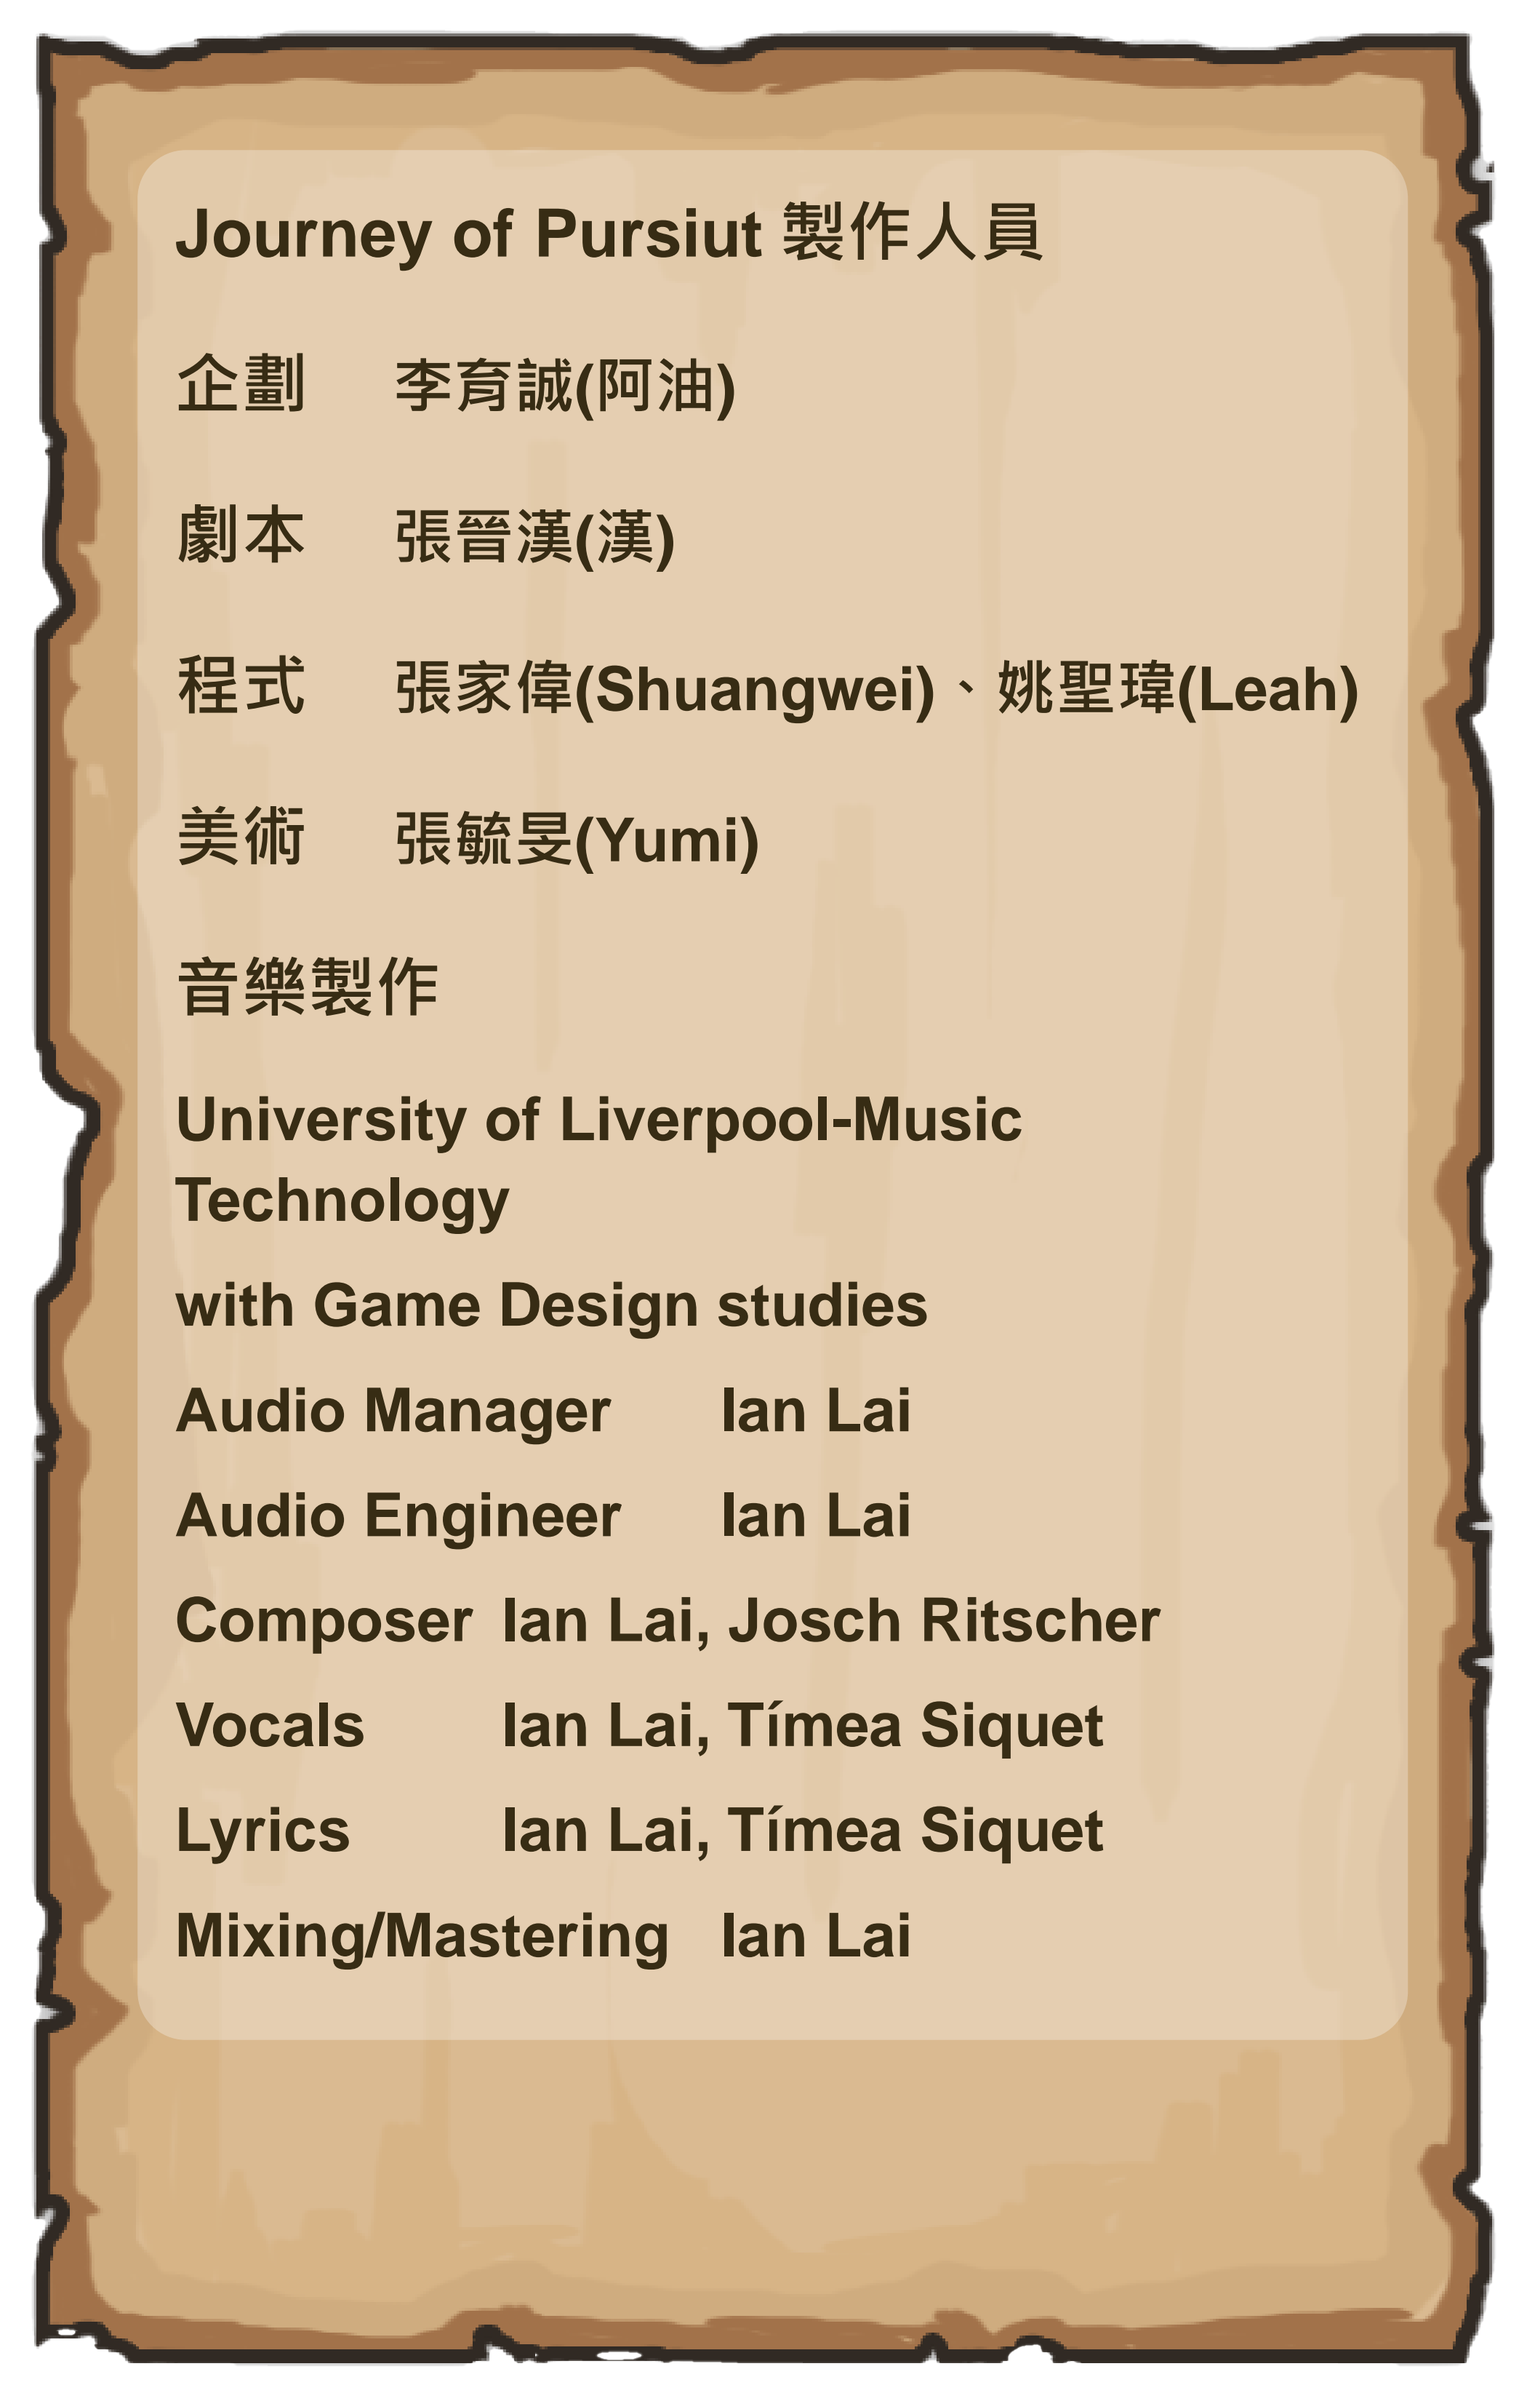
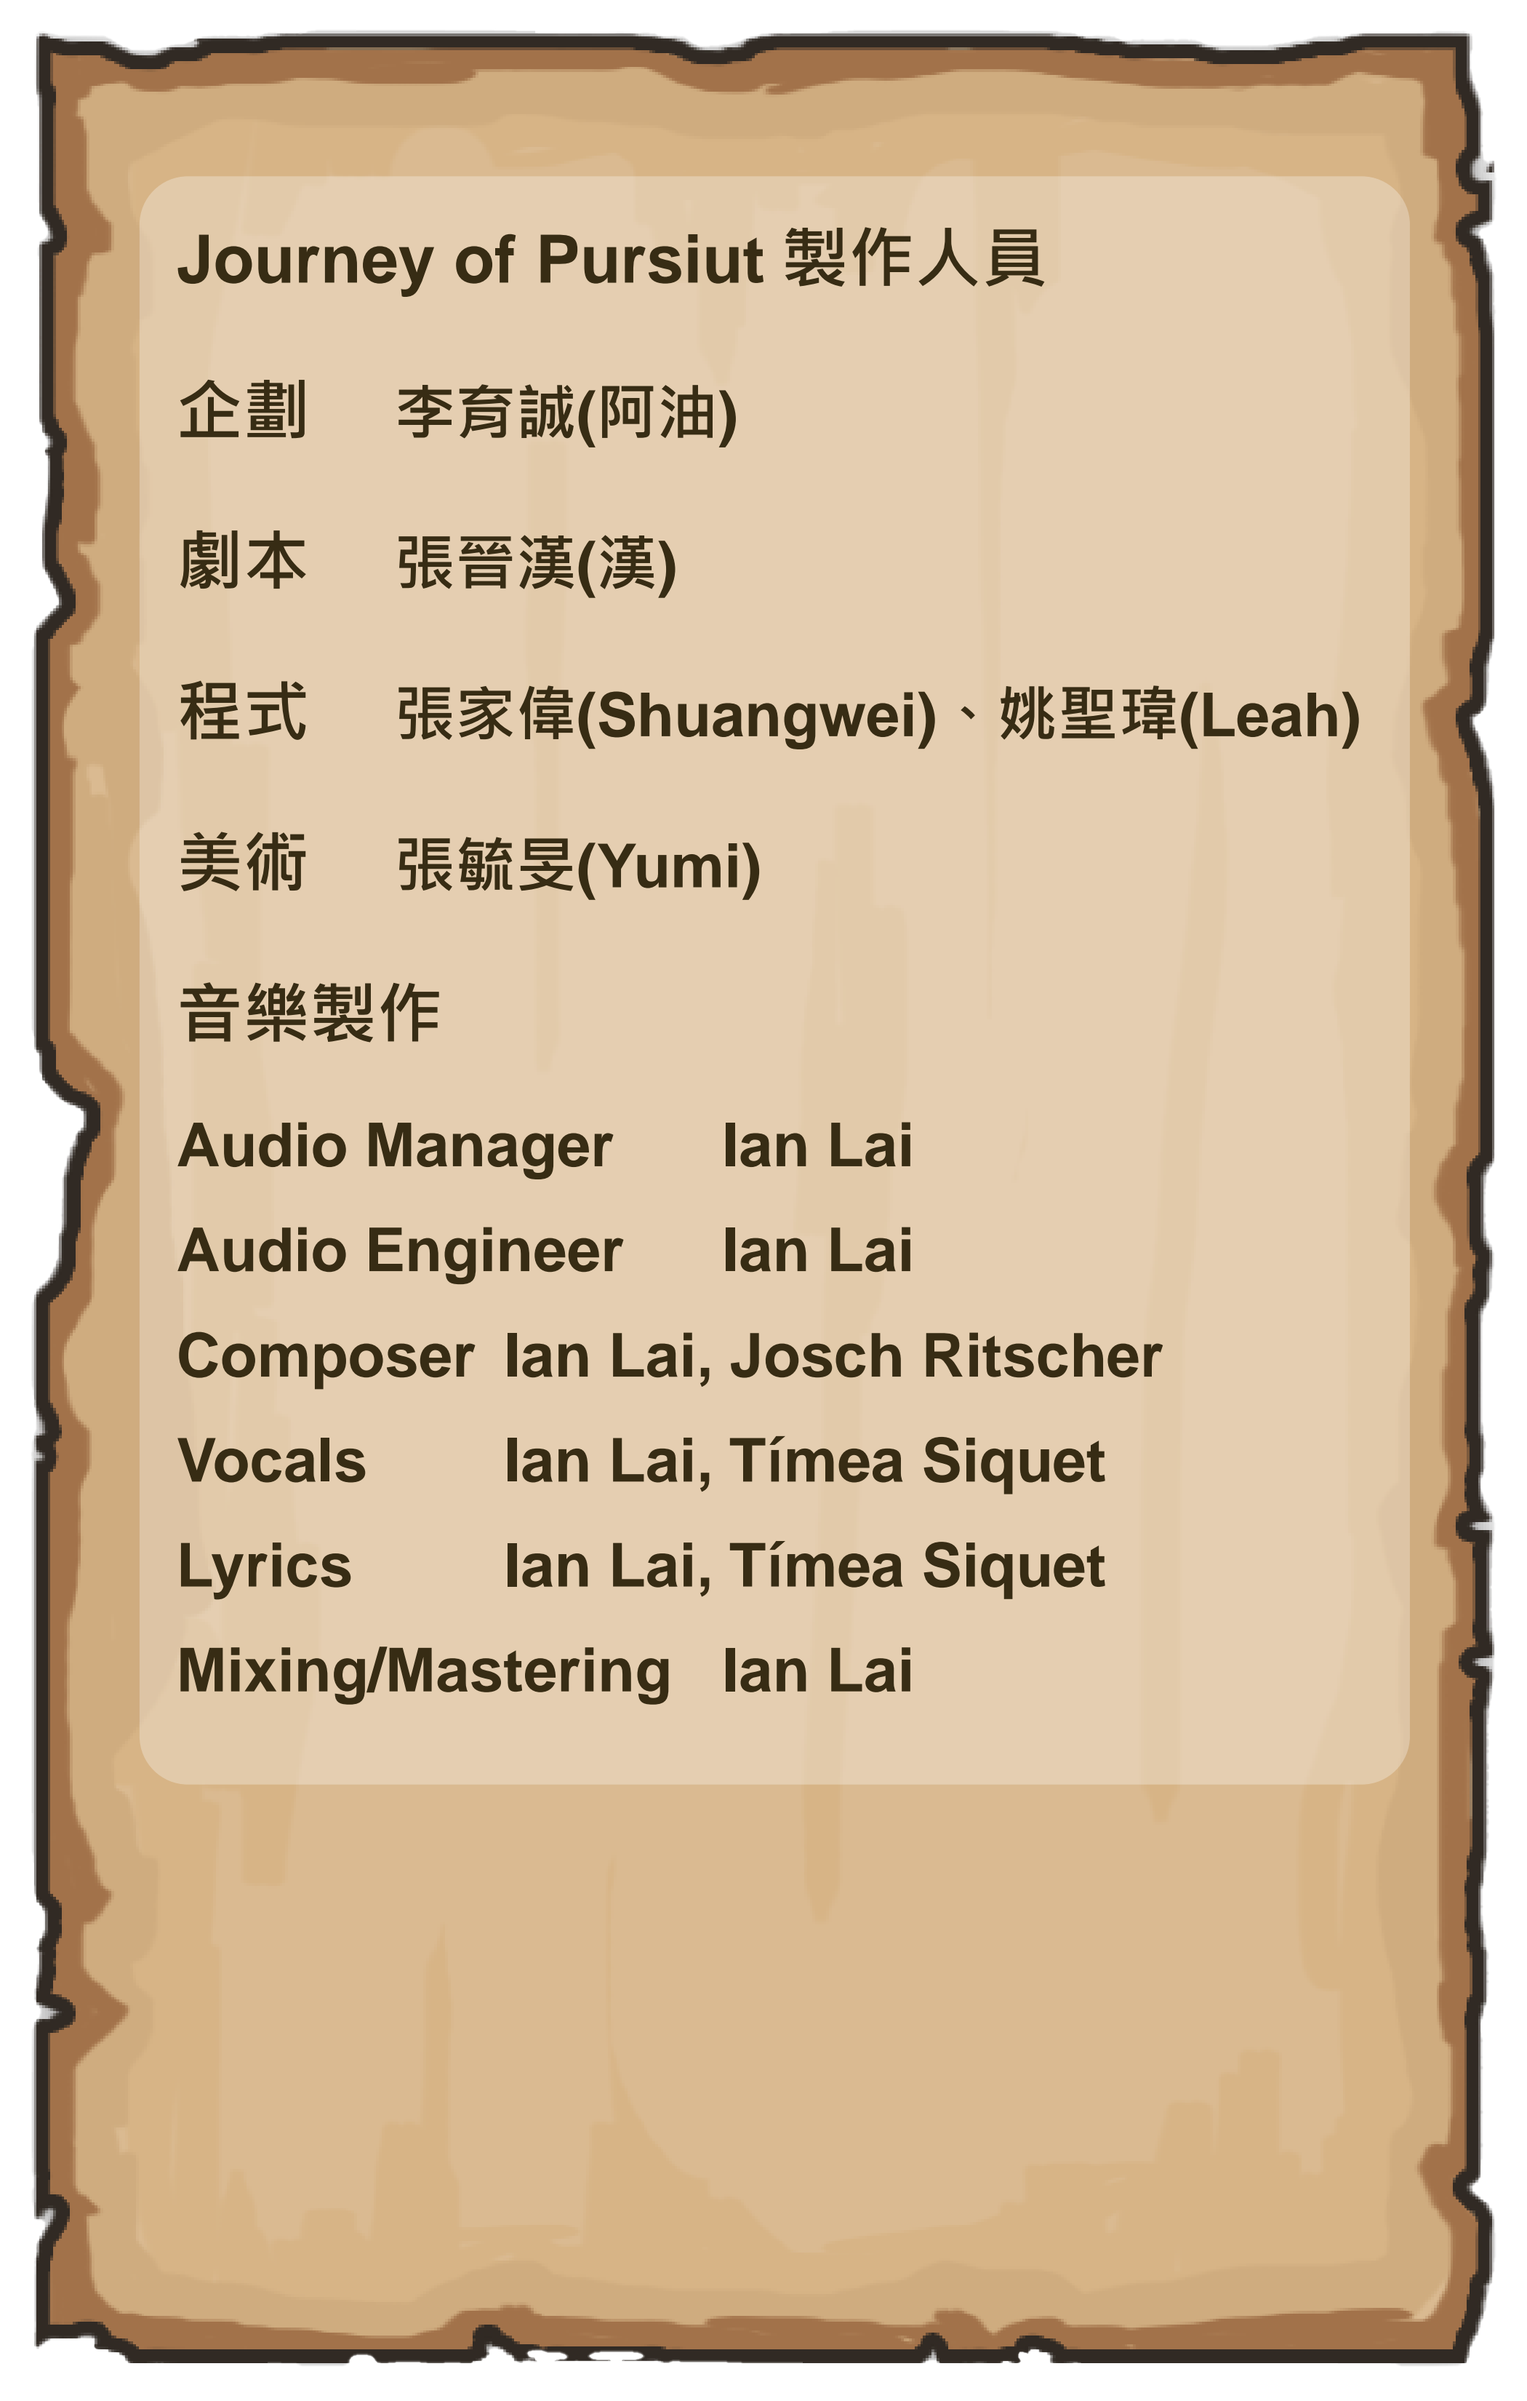
Setting Panel adjust

Changed region(s): [[0.0929, 0.0624, 0.9286, 0.8739], [0.65, 0.2497, 0.8976, 0.3121], [0.3405, 0.9676, 0.3714, 0.9988]]

diff --git a/Assets/Resources/Scripts/MainMenu/MainMenu.cs b/Assets/Resources/Scripts/MainMenu/MainMenu.cs
@@ -176,6 +176,16 @@ public class MainMenu : MonoBehaviour
         //EnableMenuButtons();
     }
 
+    public void CrewPanelOpen()
+    {
+        crewPanel.SetActive(true);
+    }
+
+    public void CrewPanelClose()
+    {
+        crewPanel.SetActive(false);
+    }
+
     public void SwitchChapter()
     {
         chapter.gameObject.SetActive(!chapter.gameObject.activeSelf);
